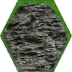
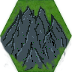
map generator

diff --git a/shared/lib/data/tales/0lvl_bandits/world.ts b/shared/lib/data/tales/0lvl_bandits/world.ts
@@ -2,20 +2,9 @@ import { WorldCreateEnvelope } from '../../../model/model';
 
 export let world: WorldCreateEnvelope = {
     baseTerrain: 'grass',
-    fields: {
-        '3_3': {
-            terrain: 'rock',
-        },
-        '4_4': {
-            terrain: 'forest',
-        },
-        '5_4': {
-            terrain: 'forest',
-        },
-        '5_5': {
-            terrain: 'water',
-        },
-    },
+    fields:
+        {"0_2":{"terrain":"forest"},"0_4":{"terrain":"forest"},"0_17":{"terrain":"rock"},"0_27":{"terrain":"forest"},"0_28":{"terrain":"forest"},"1_10":{"terrain":"forest"},"1_14":{"terrain":"rock"},"1_17":{"terrain":"rock"},"1_18":{"terrain":"forest"},"1_20":{"terrain":"forest"},"1_25":{"terrain":"forest"},"1_27":{"terrain":"forest"},"2_0":{"terrain":"forest"},"2_7":{"terrain":"rock"},"2_12":{"terrain":"forest"},"2_16":{"terrain":"forest"},"2_22":{"terrain":"forest"},"2_23":{"terrain":"forest"},"2_24":{"terrain":"forest"},"3_9":{"terrain":"forest"},"3_12":{"terrain":"forest"},"3_13":{"terrain":"forest"},"3_19":{"terrain":"forest"},"3_22":{"terrain":"forest"},"3_27":{"terrain":"forest"},"4_4":{"terrain":"forest"},"4_5":{"terrain":"forest"},"4_6":{"terrain":"forest"},"4_7":{"terrain":"forest"},"4_10":{"terrain":"forest"},"4_16":{"terrain":"forest"},"4_17":{"terrain":"rock"},"4_23":{"terrain":"forest"},"4_25":{"terrain":"forest"},"4_26":{"terrain":"forest"},"4_28":{"terrain":"rock"},"5_1":{"terrain":"forest"},"5_2":{"terrain":"forest"},"5_3":{"terrain":"forest"},"5_4":{"terrain":"forest"},"5_7":{"terrain":"forest"},"5_9":{"terrain":"forest"},"5_13":{"terrain":"forest"},"5_18":{"terrain":"forest"},"5_21":{"terrain":"forest"},"6_1":{"terrain":"forest"},"6_4":{"terrain":"forest"},"6_6":{"terrain":"forest"},"6_7":{"terrain":"forest"},"6_9":{"terrain":"rock"},"6_10":{"terrain":"forest"},"6_11":{"terrain":"forest"},"6_19":{"terrain":"rock"},"6_27":{"terrain":"forest"},"6_28":{"terrain":"forest"},"7_3":{"terrain":"forest"},"7_5":{"terrain":"forest"},"7_11":{"terrain":"forest"},"7_12":{"terrain":"forest"},"7_22":{"terrain":"rock"},"7_23":{"terrain":"forest"},"7_25":{"terrain":"forest"},"8_11":{"terrain":"forest"},"8_16":{"terrain":"forest"},"8_19":{"terrain":"forest"},"8_21":{"terrain":"forest"},"8_23":{"terrain":"forest"},"8_24":{"terrain":"forest"},"8_28":{"terrain":"forest"},"9_7":{"terrain":"forest"},"9_8":{"terrain":"forest"},"9_21":{"terrain":"forest"},"9_22":{"terrain":"forest"},"9_27":{"terrain":"forest"},"10_4":{"terrain":"forest"},"10_7":{"terrain":"forest"},"10_9":{"terrain":"forest"},"10_12":{"terrain":"forest"},"10_17":{"terrain":"forest"},"10_20":{"terrain":"forest"},"10_22":{"terrain":"forest"},"10_23":{"terrain":"forest"},"10_24":{"terrain":"forest"},"10_27":{"terrain":"rock"},"10_29":{"terrain":"forest"},"11_3":{"terrain":"forest"},"11_7":{"terrain":"forest"},"11_10":{"terrain":"forest"},"11_11":{"terrain":"forest"},"11_23":{"terrain":"forest"},"11_25":{"terrain":"forest"},"11_26":{"terrain":"forest"},"11_28":{"terrain":"forest"},"12_0":{"terrain":"forest"},"12_5":{"terrain":"forest"},"12_7":{"terrain":"forest"},"12_8":{"terrain":"forest"},"12_10":{"terrain":"forest"},"12_13":{"terrain":"forest"},"12_19":{"terrain":"forest"},"12_24":{"terrain":"forest"},"13_2":{"terrain":"forest"},"13_8":{"terrain":"forest"},"13_9":{"terrain":"forest"},"13_10":{"terrain":"forest"},"13_14":{"terrain":"forest"},"13_15":{"terrain":"forest"},"13_26":{"terrain":"forest"},"14_13":{"terrain":"forest"},"14_19":{"terrain":"forest"},"14_20":{"terrain":"forest"},"14_24":{"terrain":"forest"},"15_3":{"terrain":"forest"},"15_4":{"terrain":"forest"},"15_9":{"terrain":"forest"},"15_10":{"terrain":"forest"},"15_13":{"terrain":"forest"},"15_14":{"terrain":"forest"},"15_16":{"terrain":"rock"},"15_19":{"terrain":"forest"},"15_21":{"terrain":"forest"},"15_27":{"terrain":"forest"},"16_7":{"terrain":"forest"},"16_9":{"terrain":"forest"},"16_16":{"terrain":"forest"},"16_17":{"terrain":"forest"},"16_22":{"terrain":"forest"},"16_27":{"terrain":"forest"},"17_4":{"terrain":"forest"},"17_8":{"terrain":"forest"},"17_10":{"terrain":"rock"},"17_12":{"terrain":"forest"},"17_20":{"terrain":"forest"},"17_22":{"terrain":"forest"},"17_23":{"terrain":"forest"},"17_24":{"terrain":"rock"},"17_29":{"terrain":"forest"},"18_1":{"terrain":"forest"},"18_3":{"terrain":"rock"},"18_5":{"terrain":"forest"},"18_10":{"terrain":"forest"},"18_11":{"terrain":"rock"},"18_15":{"terrain":"forest"},"18_20":{"terrain":"forest"},"18_26":{"terrain":"forest"},"18_29":{"terrain":"forest"},"19_3":{"terrain":"forest"},"19_6":{"terrain":"forest"},"19_21":{"terrain":"forest"},"20_0":{"terrain":"forest"},"20_2":{"terrain":"forest"},"20_3":{"terrain":"forest"},"20_5":{"terrain":"forest"},"20_10":{"terrain":"rock"},"20_11":{"terrain":"forest"},"20_13":{"terrain":"forest"},"20_16":{"terrain":"forest"},"20_19":{"terrain":"forest"},"20_21":{"terrain":"forest"},"20_22":{"terrain":"forest"},"20_25":{"terrain":"forest"},"21_4":{"terrain":"forest"},"21_10":{"terrain":"forest"},"21_13":{"terrain":"rock"},"22_1":{"terrain":"forest"},"22_3":{"terrain":"forest"},"22_16":{"terrain":"forest"},"22_18":{"terrain":"forest"},"22_28":{"terrain":"forest"},"23_7":{"terrain":"forest"},"23_10":{"terrain":"forest"},"23_11":{"terrain":"forest"},"23_13":{"terrain":"forest"},"23_14":{"terrain":"forest"},"23_16":{"terrain":"forest"},"23_17":{"terrain":"forest"},"23_20":{"terrain":"forest"},"23_21":{"terrain":"forest"},"23_23":{"terrain":"forest"},"24_1":{"terrain":"forest"},"24_14":{"terrain":"forest"},"24_18":{"terrain":"forest"},"24_20":{"terrain":"rock"},"24_28":{"terrain":"forest"},"25_4":{"terrain":"rock"},"25_5":{"terrain":"forest"},"25_6":{"terrain":"forest"},"25_17":{"terrain":"forest"},"25_18":{"terrain":"forest"},"25_20":{"terrain":"forest"},"26_2":{"terrain":"forest"},"26_4":{"terrain":"forest"},"26_5":{"terrain":"forest"},"26_8":{"terrain":"forest"},"26_11":{"terrain":"forest"},"26_13":{"terrain":"forest"},"26_17":{"terrain":"forest"},"26_19":{"terrain":"forest"},"26_22":{"terrain":"forest"},"27_4":{"terrain":"forest"},"27_10":{"terrain":"forest"},"27_11":{"terrain":"rock"},"27_12":{"terrain":"forest"},"27_13":{"terrain":"forest"},"27_14":{"terrain":"forest"},"27_15":{"terrain":"forest"},"27_17":{"terrain":"forest"},"27_18":{"terrain":"rock"},"27_19":{"terrain":"forest"},"27_22":{"terrain":"forest"},"27_29":{"terrain":"forest"},"28_0":{"terrain":"rock"},"28_5":{"terrain":"forest"},"28_11":{"terrain":"forest"},"28_15":{"terrain":"forest"},"28_16":{"terrain":"forest"},"28_22":{"terrain":"forest"},"28_25":{"terrain":"forest"},"28_28":{"terrain":"forest"},"29_0":{"terrain":"forest"},"29_1":{"terrain":"forest"},"29_9":{"terrain":"forest"},"29_12":{"terrain":"forest"},"29_15":{"terrain":"forest"},"29_23":{"terrain":"forest"},"29_27":{"terrain":"forest"}}
+        ,
     height: 30,
     width: 30,
     startFieldId: '2_2',

diff --git a/shared/lib/data/world-generator.js b/shared/lib/data/world-generator.js
@@ -1,0 +1,109 @@
+const fs = require('fs');
+let baseTerrain = "grass";
+let waterProbability = 0.0001;
+let forestProbability = 0.05;
+let rockProbability = 0.005;
+let waterProbBonus = 0.5;
+let forestProbBonus = 0.2;
+let rockProbBonus = 0.01;
+let width = 30;
+let height = 30;
+
+function getDirection(x, y, direction) {
+    if (x%2 ===1) {
+        switch (direction) {
+            case 0:
+                return [x, y - 1];
+            case 1:
+                return [x + 1, y - 1];
+            case 2:
+                return [x + 1, y];
+            case 3:
+                return [x, y + 1];
+            case 4:
+                return [x - 1, y];
+            case 5:
+                return [x - 1, y - 1];
+        }
+    } else {
+        switch (direction) {
+            case 0:
+                return [x, y - 1];
+            case 1:
+                return [x + 1, y];
+            case 2:
+                return [x + 1, y + 1];
+            case 3:
+                return [x, y + 1];
+            case 4:
+                return [x - 1, y + 1];
+            case 5:
+                return [x - 1, y];
+        }
+    }
+    return null;
+}
+
+function toId(offset){
+    return offset[0] + "_" + offset[1];
+}
+
+let out = {};
+
+for(let x = 0;x<width;x++){
+    for(let y = 0;y<height;y++){
+        out[toId([x,y])] = baseTerrain;
+    }
+}
+
+for(let x = 0;x<width;x++){
+    for(let y = 0;y<height;y++){
+        let fieldId = toId([x,y]);
+        let forests = 0;
+        let rocks = 0;
+        let waters = 0;
+        for(let direction = 0;direction<6;direction++){
+            let nextFieldId = toId(getDirection(x, y, direction));
+            if(out.hasOwnProperty(nextFieldId)){
+                if(out[nextFieldId] === "forest"){
+                    forests++;
+                }
+                if(out[nextFieldId] === "rock"){
+                    rocks++;
+                }
+                if(out[nextFieldId] === "water"){
+                    waters++;
+                }
+                let forestProb = forestProbability + forestProbBonus*forests;
+                let rockProb = rockProbability + rockProbBonus*rocks;
+                let waterProb = waterProbability + waterProbBonus*waters;
+                let r1 = Math.random();
+                let r2 = Math.random();
+                let r3 = Math.random();
+                if(r1 < forestProbability){
+                    out[fieldId] = "forest";
+                }else if(r2 < rockProb){
+                    out[fieldId] = "rock";
+                }else if(r3 < waterProb){
+                    out[fieldId] = "water";
+                }
+            }
+        }
+    }
+}
+
+let cleared = {};
+
+for(let x = 0;x<width;x++){
+    for(let y = 0;y<height;y++){
+        if(out[toId([x,y])] !== baseTerrain){
+            cleared[toId([x,y])] = {
+                terrain: out[toId([x,y])]
+            };
+
+        }
+    }
+}
+
+fs.writeFileSync("shared/lib/data/generated-map.json", JSON.stringify(cleared));
+console.log(cleared);
